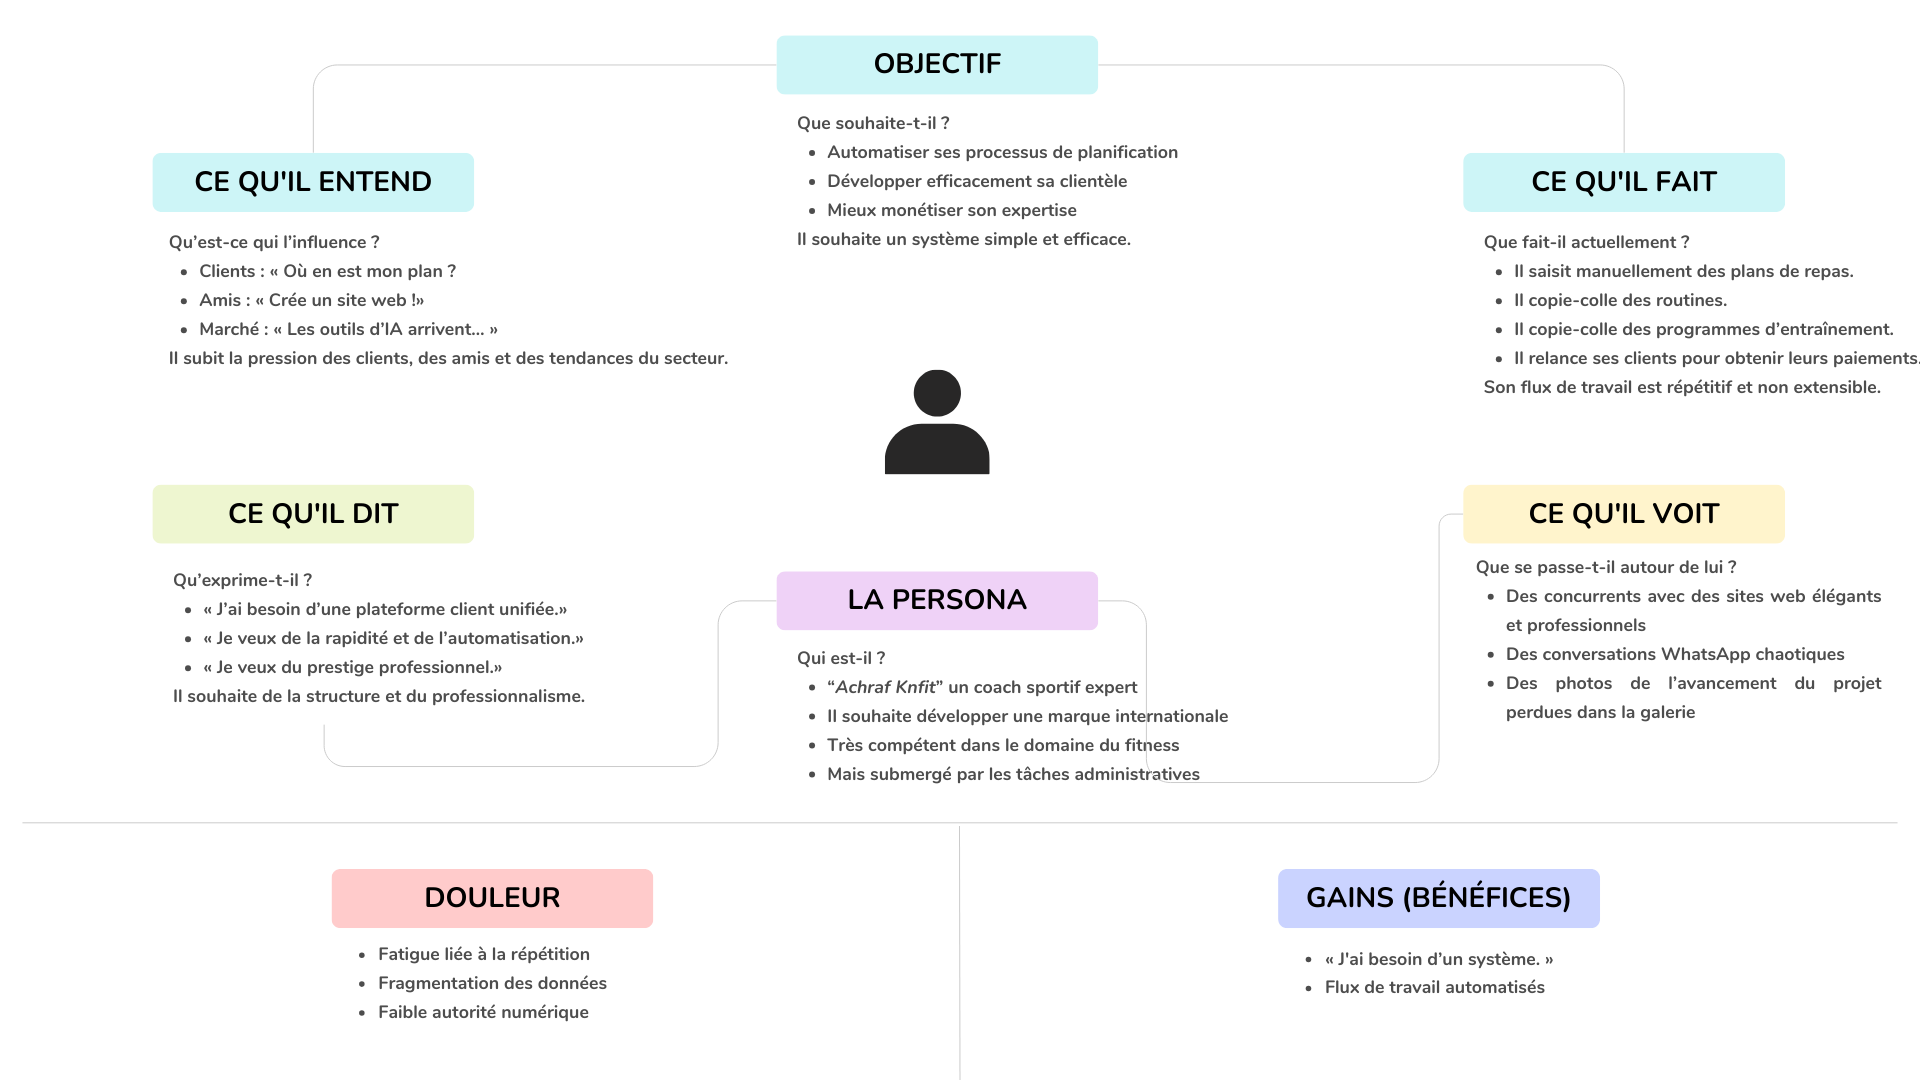
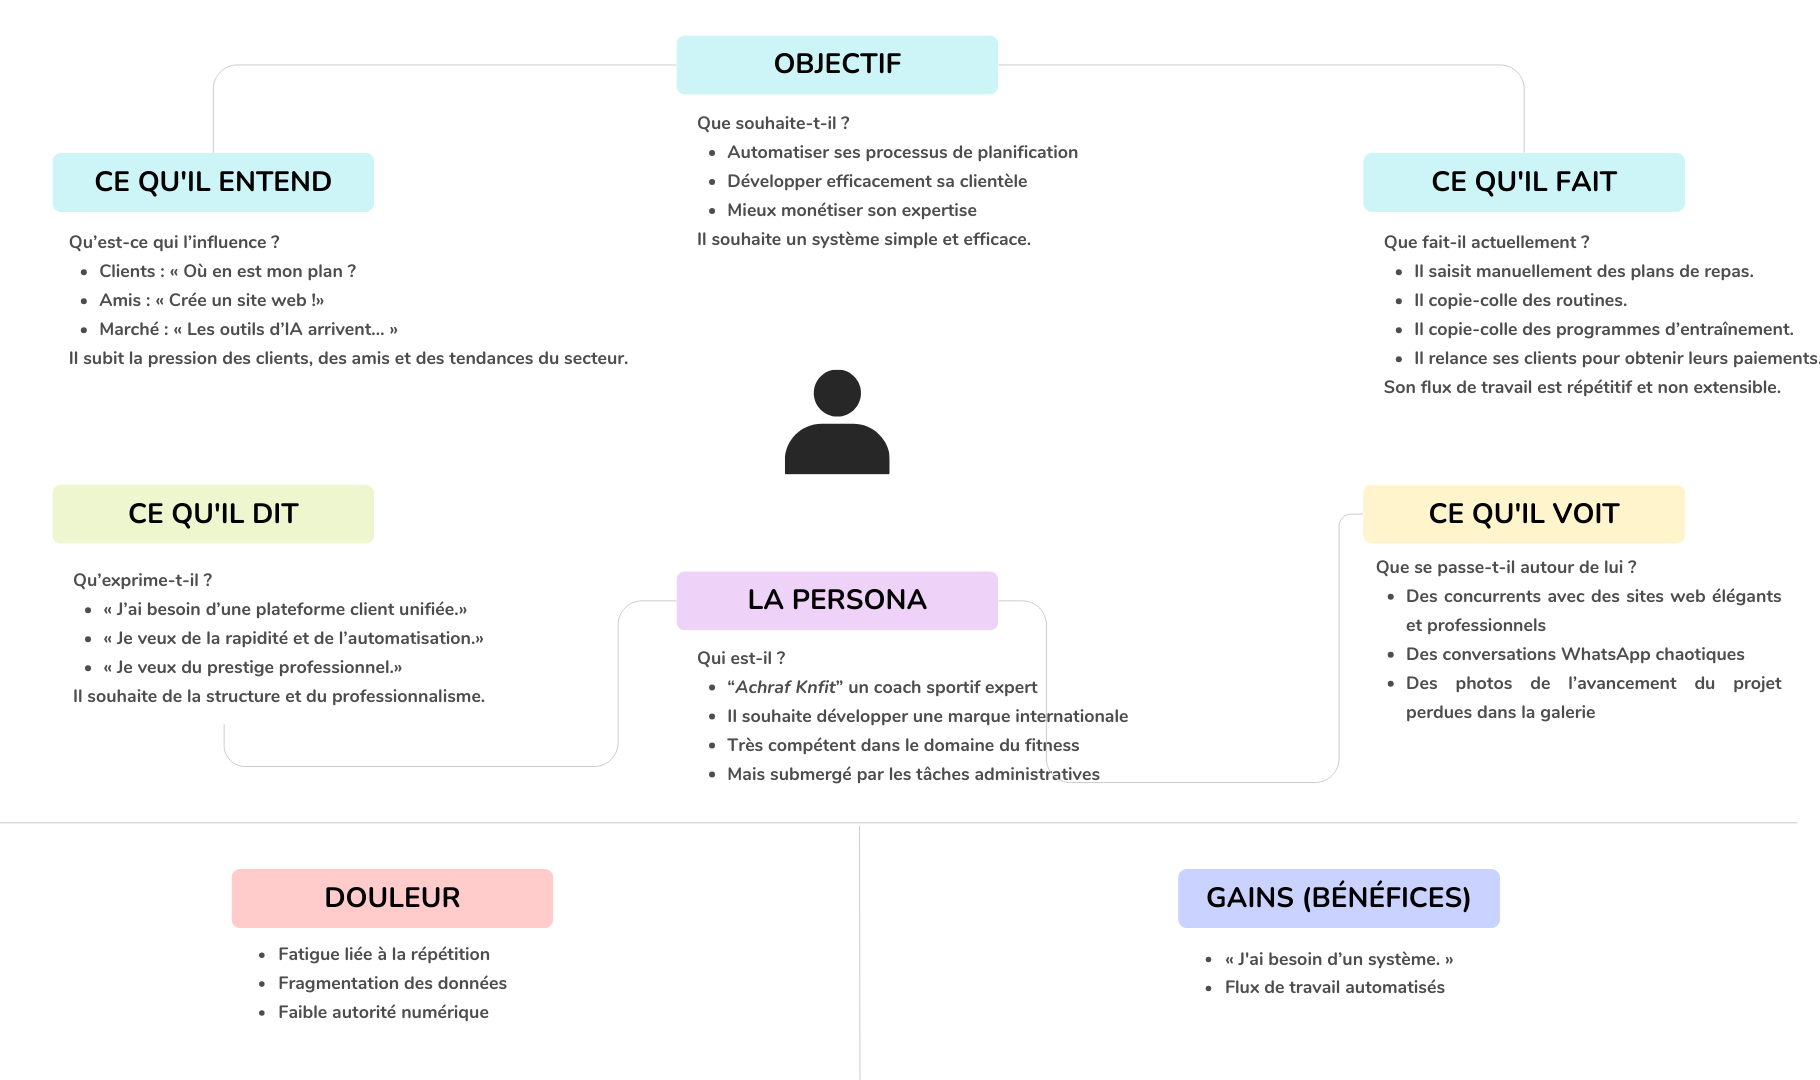
rapport

diff --git a/Presentation/README.md b/Presentation/README.md
@@ -23,9 +23,9 @@ style: |
     right: 60px;
   }
   .logo-header img { height: 140px; margin: 0; margin-left:10px; margin-right:10px }
-  h1 { color: #088dc7; font-size: 2.8em; margin-top: 100px; text-align: left; }
-  h2 { color: #088dc7; font-size: 2em; border-bottom: 2px solid #088dc7; margin-bottom: 40px;}
-  h3 { text-align: left; color: #444; margin-top: 0; }
+  h1 { color: rgb(15, 162, 1); font-size: 2.8em; margin-top: 100px; text-align: left; }
+  h2 { color: #069806; font-size: 2em; border-bottom: 2px solid #06a210; margin-bottom: 40px;}
+  h3 { text-align: left; color: #016e19; margin-top: 0; }
 
   .sommaire-grid {
     display: grid;
@@ -36,13 +36,13 @@ style: |
   .sommaire-item {
     display: flex;
     align-items: center;
-    background: #f4faff;
+    background: #f4fff6;
     border-radius: 12px;
     padding: 15px 20px;
-    border-left: 5px solid #088dc7;
+    border-left: 5px solid #08c71e;
   }
   .sommaire-num {
-    background: #088dc7; color: white; width: 35px; height: 35px;
+    background: #06d310; color: white; width: 35px; height: 35px;
     display: flex; justify-content: center; align-items: center;
     border-radius: 50%; font-weight: bold; margin-right: 15px; flex-shrink: 0;
   }
@@ -63,10 +63,10 @@ style: |
   }
 
   .dt-card {
-    background: #f0f7fa;
+    background: #f3faf0;
     padding: 30px;
     border-radius: 10px;
-    border-top: 6px solid #088dc7;
+    border-top: 6px solid #0cca02;
     text-align: left;
     margin-top: 20px;
     width: 100%;
@@ -103,8 +103,8 @@ style: |
   <img src="images/logo-solicode.png" alt="Logo Right">
 </div>
 
-# **Projet de Fin de Formation**
-### **Digitalisation des Services de Coaching : Développement d’une Solution Web Intégrée de Gestion et de Branding**
+# Projet de Fin de Formation
+### Digitalisation des Services de Coaching : Développement d’une Solution Web Intégrée de Gestion et de Branding
 
 **Réalisé par :** <span class="highlight">Mehdi Bentaleb</span>  
 **Encadré par :** <span class="highlight">M. ESSARRAJ Fouad</span>  
@@ -120,12 +120,25 @@ style: |
   <div class="sommaire-item"><div class="sommaire-num">3</div><div class="sommaire-text">Branche Fonctionnelle</div></div>
   <div class="sommaire-item"><div class="sommaire-num">4</div><div class="sommaire-text">Branche Technique</div></div>
   <div class="sommaire-item"><div class="sommaire-num">5</div><div class="sommaire-text">Conception</div></div>
-    <div class="sommaire-item"><div class="sommaire-num">6</div><div class="sommaire-text">Démonstration</div></div>
+  <div class="sommaire-item"><div class="sommaire-num">6</div><div class="sommaire-text">Démonstration</div></div>
   <div class="sommaire-item"><div class="sommaire-num">7</div><div class="sommaire-text">Conclusion</div></div>
 </div>
 
 ---
 ## 1. Contexte du projet
+<div class="img-container">
+  <div class="dt-card" style="border-top-color: #f39c12;">
+    <h4>Contexte : </h4>
+    <blockquote style="font-style: italic; background: white; padding: 15px; border-radius: 8px;">
+      "Coach Amin is an experienced fitness coach who helps clients achieve their physical goals through personalized training and nutrition plans.
+
+  However, despite his strong expertise, he faces difficulties in managing administrative tasks such as organizing workout programs, tracking client progress, and handling payments. Most of his work is done manually, which consumes time and reduces efficiency ."
+    </blockquote>
+  </div>
+</div>
+
+
+> This project focuses on analyzing Coach Amin’s needs in order to propose solutions that improve his organization, optimize his workflow, and enhance his professional performance.
 
 ---
 
@@ -152,8 +165,13 @@ style: |
 
 
 ## 3. Branche Fonctionnelle : Design Thinking
+### Carte Empatie : 
+<div class="img-container">
+  <img src="images/image-carte-empatie.png" class="img-methodo" alt="Scrum">
+</div>
+---
+## 3. Branche Fonctionnelle : Design Thinking
 ### 1. EMPATHIE
-
 <div class="img-container">
   <div class="dt-card" style="border-top-color: #f39c12;">
     <h4>Comprendre l'utilisateur</h4>
@@ -165,6 +183,8 @@ style: |
 
 ---
 
+
+
 ## Branche Fonctionnelle : Design Thinking
 ### 2. DÉFINITION
 
@@ -172,9 +192,9 @@ style: |
   <div class="dt-card" style="border-top-color: #f39c12;">
     <h4>Cadrage du problème</h4>
     <blockquote style="font-style: italic; background: white; padding: 15px; border-radius: 8px;">
-      "Comment simplifier l'évaluation tout en offrant un feedback immédiat ?"
+      "vide"
     </blockquote>
-    <p>Focus sur : L'accessibilité, la rapidité et la fiabilité des données.</p>
+    <p>vide</p>
   </div>
 </div>
 

diff --git a/Rapport/05_analyse.md b/Rapport/05_analyse.md
@@ -1,0 +1,25 @@
+# 🔍 Analyse fonctionnelle
+
+## 1. Phase d'Empathie
+L'entretien avec **Madame Hannane** (15/11/2025) a révélé un décalage de 4-6h dû à la saisie manuelle (70% de son temps).
+*   **Observations :** Fatigue cognitive, documents égarés, données obsolètes.
+*   **Carte d'Empathie :** Elle se sent **anxieuse** pour la précision et **épuisée** par la répétition. Elle souhaite passer de la "saisie" à la "validation".
+
+## 2. Définition du Problème
+*   **Admin :** Besoin d'éliminer le "double travail" papier/numérique.
+*   **HMW :** Comment numériser les fiches et les justificatifs pour un traitement instantané ?
+
+## 3. Idéation (Solutions retenues)
+1.  **Saisie Mobile :** Enregistrement immédiat par l'enseignant.
+2.  **Dashboard visuel :** Validation rapide par l'administration (code couleur).
+3.  **Gestion des Justificatifs :** Suivi numérique des certificats médicaux.
+
+## 4. Diagramme de Cas d’Utilisation
+*   **Enseignant :** Saisie des absences/retards.
+*   **Administrateur :** Validation des justificatifs et rapports.
+
+*(Réf: Analyse/cas_utilisation/use_case.puml)*
+
+```{=openxml}
+<w:p><w:r><w:br w:type="page"/></w:r></w:p>
+```

diff --git a/Rapport/00_title_page.md b/Rapport/00_title_page.md
@@ -1,0 +1,46 @@
+<div align="center">
+
+<br>
+
+| | |
+|:---:|:---:|
+| ![](imgs/solicode_logo.png){width=140px} | ![](imgs/ofppt-logo.png){width=140px} |
+
+<br><br><br>
+
+**REPORT FINAL DE PROJET**
+
+
+<br>
+
+***
+
+<br>
+
+**QCM**
+*Development of a Management System*
+
+<br>
+
+***
+
+<br><br><br>
+
+| | |
+|:--- | ---:|
+| **Submitted by:** | **Academic Year:** |
+| **Soli-Devs26** | **2025 - 2026** |
+| | |
+| **Supervisor:** | **Location:** |
+| **Mr. Essarraj Fouad** | **Tangier, Morocco** |
+
+<br><br><br><br><br>
+
+**SOLICODE – Digital & IT Training Center**
+*www.solicode.co*
+
+</div>
+
+```{=openxml}
+<w:p><w:r><w:br w:type="page"/></w:r></w:p>
+```

diff --git a/Rapport/06_technical.md b/Rapport/06_technical.md
@@ -1,0 +1,34 @@
+# 🏗 Technical Branch
+
+## Technological Choices
+
+### Backend
+### Frontend
+### Database
+### External Tools
+
+```{=openxml}
+<w:p><w:r><w:br w:type="page"/></w:r></w:p>
+```
+
+## System Architecture
+
+### MVC Architecture
+### 3-Tier Architecture
+### Global Architecture
+
+```{=openxml}
+<w:p><w:r><w:br w:type="page"/></w:r></w:p>
+```
+
+## Prototype (Features and Classes)
+
+### 1. Administrator Section
+### 2. Public Section
+### 3. API
+### 4. Mobile Application
+### Class Diagram — Main Classes
+
+```{=openxml}
+<w:p><w:r><w:br w:type="page"/></w:r></w:p>
+```

diff --git a/Rapport/04_methode.md b/Rapport/04_methode.md
@@ -1,0 +1,31 @@
+# 🛠 Méthode de travail
+
+## Scrum
+
+### Overview
+### Roles
+### Events
+### Artifacts
+### Benefits
+
+```{=openxml}
+<w:p><w:r><w:br w:type="page"/></w:r></w:p>
+```
+
+## 2TUP Methodology
+
+```{=openxml}
+<w:p><w:r><w:br w:type="page"/></w:r></w:p>
+```
+
+## Design thinking
+
+### Introduction
+### Definition
+### Why Use Design Thinking?
+### The Five Stages
+### Conclusion
+
+```{=openxml}
+<w:p><w:r><w:br w:type="page"/></w:r></w:p>
+```

diff --git a/Rapport/01_toc.md b/Rapport/01_toc.md
@@ -1,0 +1,9 @@
+# 📋 Table of Contents
+
+```{=openxml}
+<w:p><w:r><w:fldChar w:fldCharType="begin"/></w:r><w:r><w:instrText xml:space="preserve"> TOC \o "1-3" \h \z \u </w:instrText></w:r><w:r><w:fldChar w:fldCharType="separate"/></w:r><w:r><w:fldChar w:fldCharType="end"/></w:r></w:p>
+```
+
+```{=openxml}
+<w:p><w:r><w:br w:type="page"/></w:r></w:p>
+```

diff --git a/Rapport/03_contexte.md b/Rapport/03_contexte.md
@@ -1,0 +1,13 @@
+# 🏙 Contexte de projet
+
+## Objectifs de formation (SoliCode)
+
+```{=openxml}
+<w:p><w:r><w:br w:type="page"/></w:r></w:p>
+```
+
+## Cahier des charges
+
+```{=openxml}
+<w:p><w:r><w:br w:type="page"/></w:r></w:p>
+```

diff --git a/Rapport/08_realisation.md b/Rapport/08_realisation.md
@@ -1,0 +1,13 @@
+# 💻 Réalisation
+
+## Technologies utilisées
+
+```{=openxml}
+<w:p><w:r><w:br w:type="page"/></w:r></w:p>
+```
+
+## Outils de développement
+
+```{=openxml}
+<w:p><w:r><w:br w:type="page"/></w:r></w:p>
+```

diff --git a/Rapport/07_design.md b/Rapport/07_design.md
@@ -1,0 +1,13 @@
+# 🎨 Design
+
+## Class diagram
+
+```{=openxml}
+<w:p><w:r><w:br w:type="page"/></w:r></w:p>
+```
+
+## Schéma des interfaces (Maquette)
+
+```{=openxml}
+<w:p><w:r><w:br w:type="page"/></w:r></w:p>
+```

diff --git a/Rapport/02_preliminary.md b/Rapport/02_preliminary.md
@@ -1,0 +1,11 @@
+# 📜 Remerciement
+
+```{=openxml}
+<w:p><w:r><w:br w:type="page"/></w:r></w:p>
+```
+
+# 🚀 Introduction
+
+```{=openxml}
+<w:p><w:r><w:br w:type="page"/></w:r></w:p>
+```

diff --git a/Rapport/09_conclusion.md b/Rapport/09_conclusion.md
@@ -1,0 +1,1 @@
+# ⭐ Conclusion
